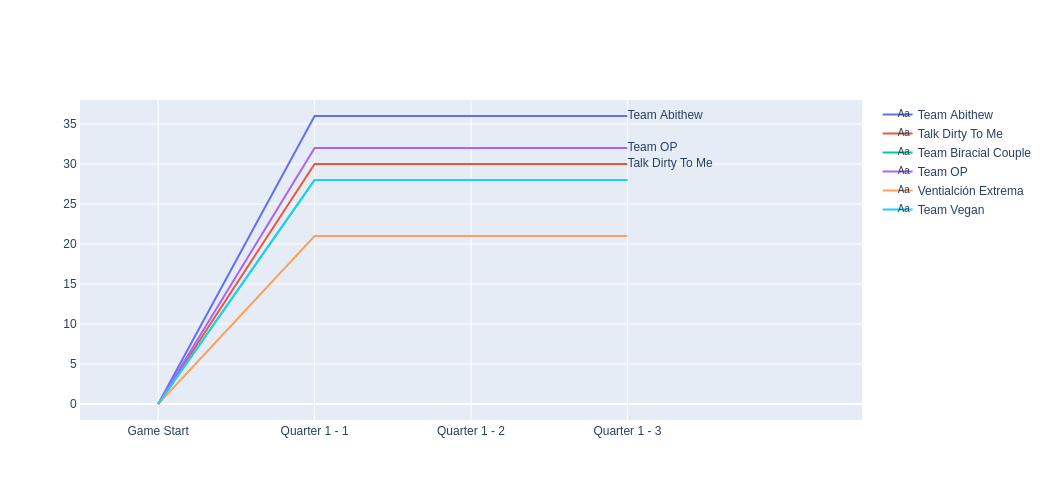
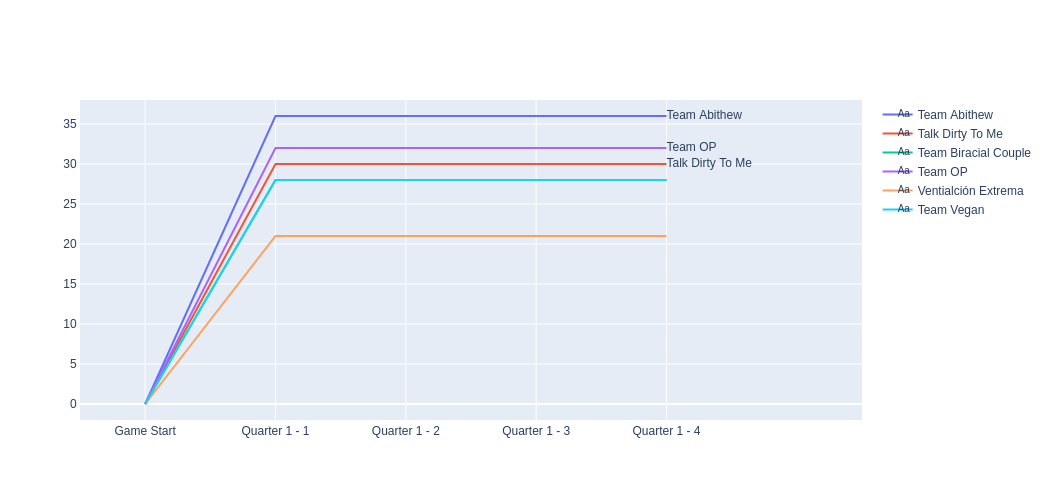
Live Edits

diff --git a/Trivia/Live_Tracker.html b/Trivia/Live_Tracker.html
@@ -13,7 +13,7 @@
         document.getElementById("title").innerHTML = "Trivia Live Scoring - " + m + "/" + d + "/" + y;
         </script>
         <div><img src = "img/fig1.png"></div>
-        <div>4 people (67%) got question 1-3 correct.</div>
+        <div>4 people (67%) got question 1-4 correct.</div>
         
         </body>
         </html>
